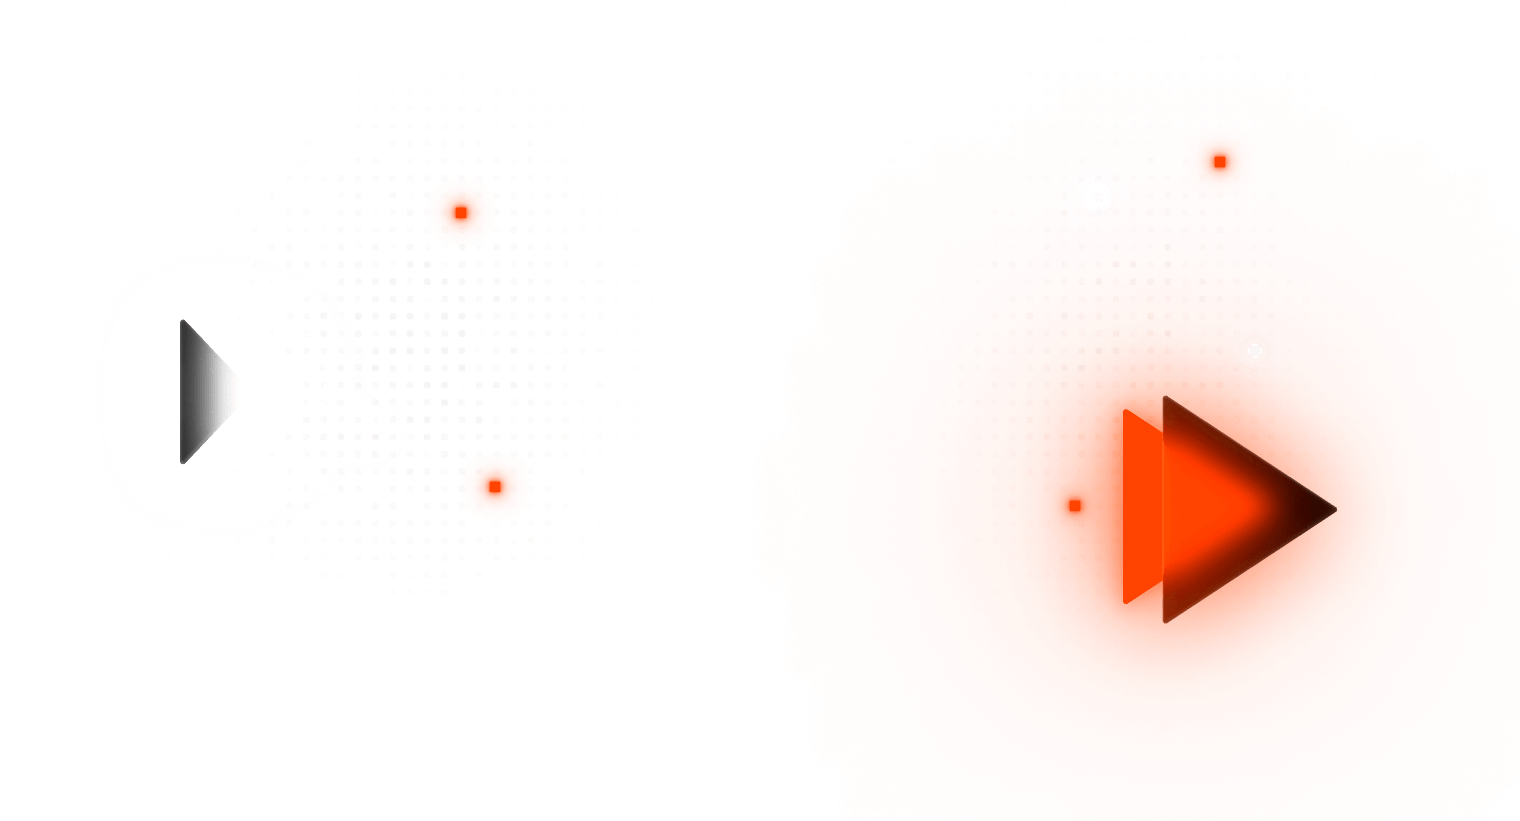
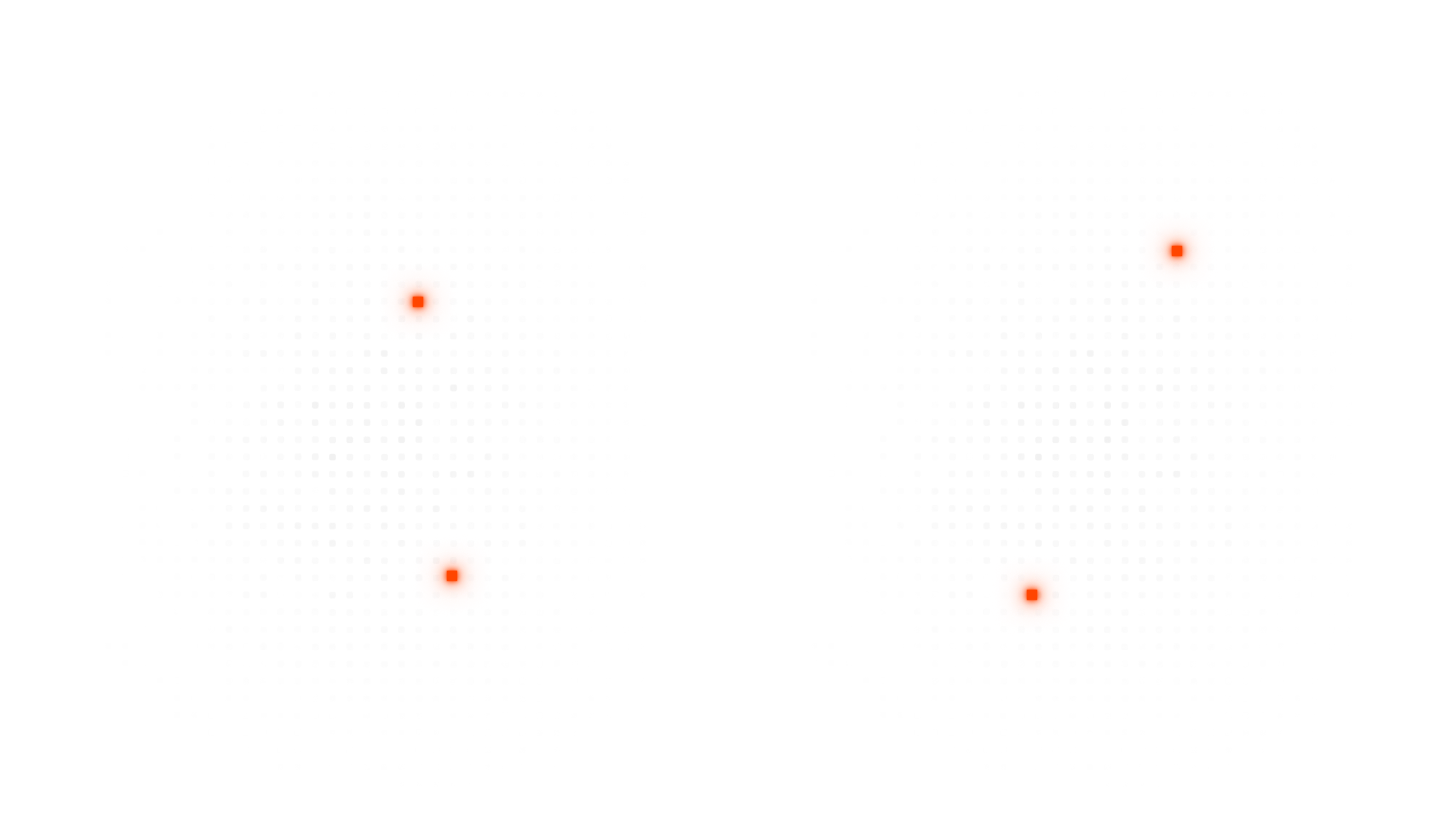
update animate style

diff --git a/css/style.css b/css/style.css
@@ -95,15 +95,20 @@ section {
 
 .top {
     margin-bottom: 20px;
+    background-image: url('../img/rocket.gif');
+    background-position: left bottom;
+    background-repeat: no-repeat;
+    background-size: 250px;
 }
 
 .top__inner {
     min-height: 820px;
-    background-image: url('../img/header.png');
-    background-position: center;
-    background-repeat: no-repeat;
-    background-size: auto;
+    background: url('../img/header.png') center no-repeat,
+                    url('../img/header2.png')  center 25% no-repeat;
+    background-size: auto, auto;
+    /* background-position:  3000px 80%, 280% 40% ;  */
     margin-top: 109px;
+    animation: top-arrow 2s 2s linear 1;
 }
 
 .top__title {
@@ -138,6 +143,9 @@ section {
     padding: 21px 0;
 }
 
+.animate__fadeIn{
+    --animate-duration: 3s;
+  }
 /* ----------------------------------------------------------------- NOEXPERIMENTS --------------------------------------------------------------------------- */
 
 .noexperiments {
@@ -1319,7 +1327,7 @@ input[type="checkbox"]:checked+label::before {
         padding-left: 20px;
     }
 }
-
+/* ------------------------------------------------- MEDIA 992 ----------------------------------------------- */
 @media (max-width: 992px) {
 
     .header,
@@ -1495,7 +1503,7 @@ input[type="checkbox"]:checked+label::before {
         display: none;
     }
 }
-
+/* ------------------------------------------------------MEDIA 930------------------------------------------ */
 @media (max-width: 930px) {
     .carousel__item-title {
         max-width: 210px;
@@ -1505,7 +1513,7 @@ input[type="checkbox"]:checked+label::before {
         right: 6%;
     }
 }
-
+/* ------------------------------------------------------MEDIA 768------------------------------------------ */
 @media (max-width: 768px) {
 
     .stages__inner {
@@ -1597,7 +1605,7 @@ input[type="checkbox"]:checked+label::before {
 }
 
 
-
+/*--------------------------------------------------------MEDIA 576 -----------------------------------------  */
 @media (max-width: 576px) {
     .header__inner {
         justify-content: space-between;
@@ -2014,6 +2022,13 @@ input[type="checkbox"]:checked+label::before {
         max-height: 240px;
     }
 }
+/* --------------------------------------------------------- ANIMATE ------------------------------------------ */
+
+
+/* @keyframes top-arrow{
+    0% { background-position: 3000px 80%, 180% 40%; }
+    100% { background-position: center, center 25%; }
+} */
 
 
 #compas {
@@ -2113,50 +2128,35 @@ input[type="checkbox"]:checked+label::before {
 
     15% {
         transform: rotate(-30deg) translate(-54px, 48px);
-        opacity: 1;
     }
 
     20% {
         transform: rotate(-20deg) translate(-46px, 40px);
-        opacity: 1;
     }
 
     25% {
         transform: rotate(-10deg) translate(-39px, 33px);
-        opacity: 1;
     }
 
     30% {
         transform: rotate(0deg) translate(-31px, 27px);
-        opacity: 1;
     }
 
     35% {
         transform: rotate(10deg) translate(-24px, 20px);
-        opacity: 1;
     }
 
     40% {
         transform: rotate(10deg) translate(-10px, 7px);
+    }
+
+    90% {
+        transform: rotate(10deg) translate(-10px, 7px);
         opacity: 1;
     }
 
-    50% {
-        transform: rotate(10deg) translate(-10px, 7px);
-        opacity: .9;
-    }
-
-    60% {
-        transform: rotate(10deg) translate(-10px, 7px);
-        opacity: .7;
-    }
-
-    70% {
-        transform: rotate(10deg) translate(-10px, 7px);
-        opacity: .4;
-    }
-
     100% {
+        transform: rotate(10deg) translate(-10px, 7px);
         opacity: 0;
     }
 }
@@ -2248,8 +2248,9 @@ input[type="checkbox"]:checked+label::before {
     25% {
         transform: rotate(0) scale(.8);
     }
+
     75% {
-        transform: rotate(75deg) scale(.8) ;
+        transform: rotate(75deg) scale(.8);
     }
 }
 
@@ -2259,15 +2260,16 @@ input[type="checkbox"]:checked+label::before {
 }
 
 @keyframes semanticCircle {
-    
+
     25% {
         stroke-width: 1;
     }
+
     75% {
         stroke-width: 1;
     }
 
-    
+
 }
 
 #chat-circle {
@@ -2405,12 +2407,7 @@ input[type="checkbox"]:checked+label::before {
 }
 
 #questions-arrow {
-    animation-name: questionsArrow;
-    animation-duration: 2.5s;
-    animation-timing-function: linear;
-    animation-delay: 2500ms;
-    animation-iteration-count: infinite;
-    /* animation: questionsArrow 2s  1s infinite; */
+    animation: questionsArrow 2.5s linear 2500ms infinite
 }
 
 @keyframes questionsArrow {
@@ -2449,15 +2446,7 @@ input[type="checkbox"]:checked+label::before {
 }
 
 #exclamation-arrow {
-    /* animation: exclamationArrow 2s  1s infinite; */
-
-    animation-name: exclamationArrow;
-    animation-duration: 2.5s;
-    animation-timing-function: linear;
-    animation-delay: 2500ms;
-    animation-iteration-count: infinite;
-    /* animation-fill-mode: как указано
-    animation-play-state: как указано */
+    animation: exclamationArrow 2.5s linear 2500ms infinite;
 }
 
 @keyframes exclamationArrow {

diff --git a/js/script.js b/js/script.js
@@ -77,26 +77,27 @@ $(function () {
                 }
             }],
 
-            
+
 
             responsive: [{
-                breakpoint: 768,
-                settings: {
-                    slidesToShow:2,
-                    infinite: true,
-                    initialSlide: 0,
-                    centerMode: false,
+                    breakpoint: 768,
+                    settings: {
+                        slidesToShow: 2,
+                        infinite: true,
+                        initialSlide: 0,
+                        centerMode: false,
+                    }
+                },
+                {
+                    breakpoint: 576,
+                    settings: {
+                        slidesToShow: 1.08,
+                        infinite: true,
+                        initialSlide: 0,
+                        centerMode: false,
+                    }
                 }
-            },
-            {
-                breakpoint: 576,
-                settings: {
-                    slidesToShow:1.08    ,
-                    infinite: true,
-                    initialSlide: 0,
-                    centerMode: false,
-                }
-            }],
+            ],
         });
 
         $slickElement.parent().find('.carousel__buttons-slider .carousel__buttons-next').click(function () {
@@ -107,26 +108,13 @@ $(function () {
         });
 
     });
+
     const chatIcon = new Vivus('chat', {
         type: 'oneByOne',
         duration: 250,
-    }, myVivus => {
-        if (myVivus.getStatus() === 'end') {
-            myVivus.reset().play();
-        }
-    });
-
-
-    // const chatIcons = new Vivus(
-    //     'solutions',
-    //     {
-    //         type: 'scenario',
-    //         duration: 300,
-    //         reverseStack:true,
-    //         delay: 200,
-    //     },myVivus => {
-    //         if (myVivus.getStatus() === 'end') {
-    //             myVivus.reset().play();
-    //         }
-    //     });
+        }, function(){
+            // chatIcon.reset()
+            setTimeout(function(){
+                chatIcon.reset().play()},2500)
+            });
 });

diff --git a/index.html b/index.html
@@ -7,6 +7,7 @@
     <meta name="viewport" content="width=device-width, initial-scale=1.0">
     <link rel="icon" href="./img/favicon.ico" type="image/x-icon">
     <link rel="stylesheet" href="css/reset.css">
+    <link rel="stylesheet" href="https://cdnjs.cloudflare.com/ajax/libs/animate.css/4.1.1/animate.min.css">
     <link rel="stylesheet" type="text/css" href="css/slick.css"/>
     <link rel="stylesheet" type="text/css" href="css/slick-theme.css"/>
     <link rel="stylesheet" href="css/style.css">
@@ -30,7 +31,7 @@
     <section class="top">
         <div class="top__inner">
             <div class="wrapper">
-                <h1 class="top__title title">SEO продвижение сайтов в Молдове</h1>
+                <h1 class="top__title title animate__animated animate__fadeIn">SEO продвижение сайтов в Молдове</h1>
                 <a href="#order" class="top__button">Заказать услугу</a>
             </div>
         </div>
